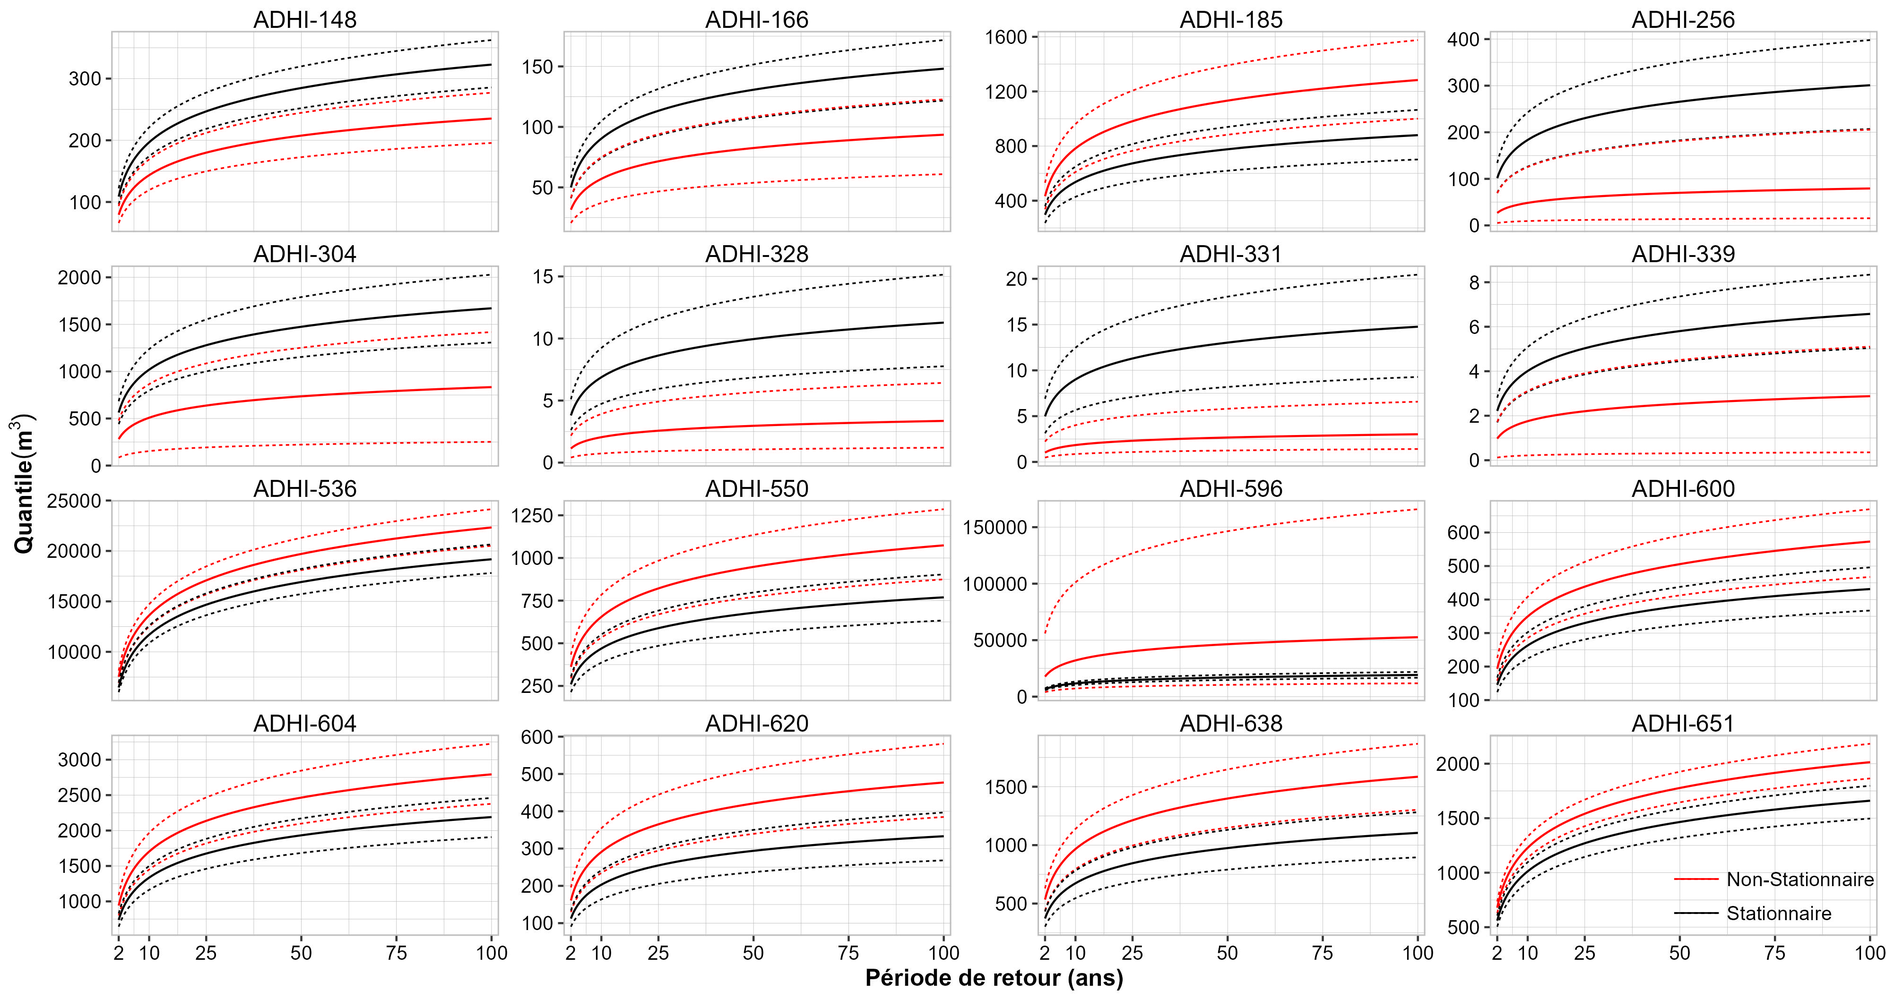
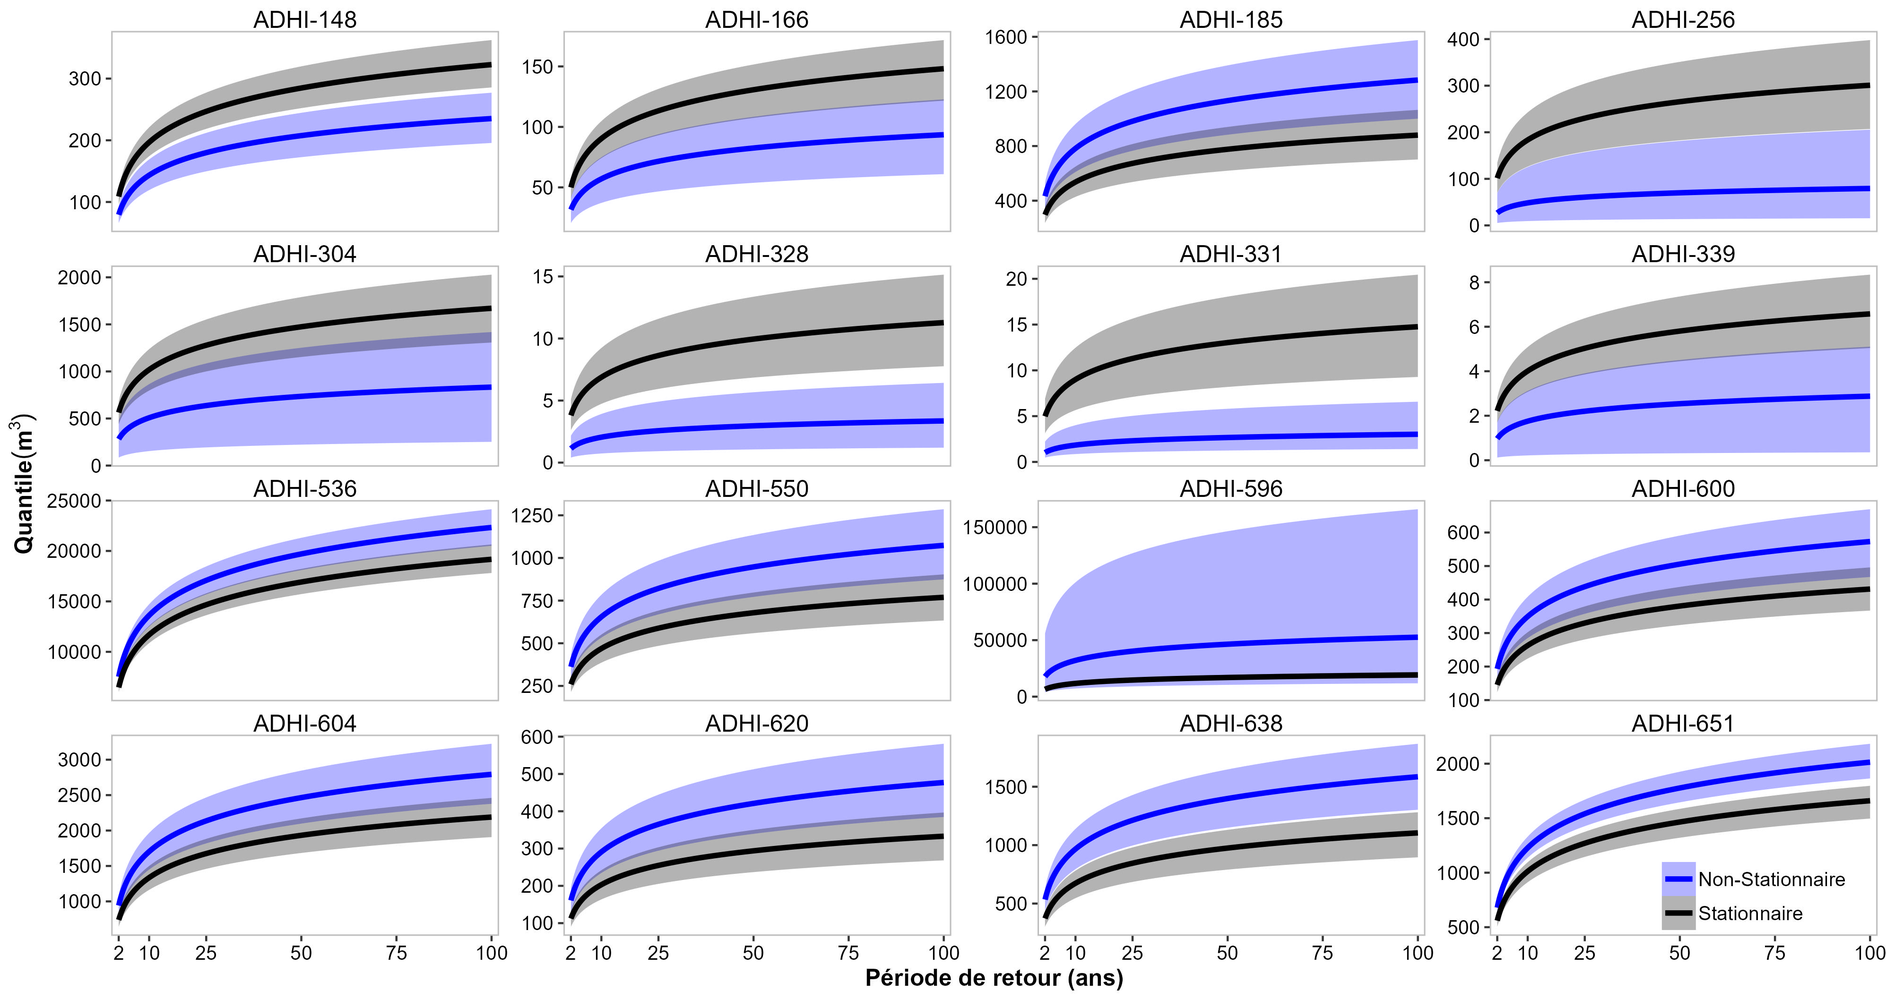
change non-stationary and stationary return level uncertainties plot

diff --git a/docs/index.html b/docs/index.html
@@ -710,13 +710,16 @@
   D --&gt;G
   F --&gt; H(Exploitation du modèle fréquentielle)
   G --&gt; H
+%%{init: {'theme': 'base', "flowchart": {"curve": "stepAfter"}, 'themeVariables': { 'primaryColor': '#fff', 'primaryTextColor': '#000', 'primaryBorderColor': '#626362', 'lineColor': '#626362', 'secondaryColor': '#006100', 'tertiaryColor': '#fff', 'fontSize': '16pt'}}}%%
 </pre>
 </div>
 </div>
 </div>
 </div>
 <div class="justify">
-<p><span class="column-body-text"><strong><i class="fa-solid fa-angle-right" aria-label="angle-right"></i> Le contrôle de la série</strong> de renvoie aux tests d’hypothèses de stationnarité et d’indépendance.<br><strong><i class="fa-solid fa-angle-right" aria-label="angle-right"></i> Le choix du modèle fréquentiel</strong> passe par l’ajustement de plusieurs distributions de probabilité, l’évaluation de la qualité d’ajustement de ces distributions et le choix du modèle qui s’ajuste le mieux aux données observées.<br><strong><i class="fa-solid fa-angle-right" aria-label="angle-right"></i> L’exploitation du modèle fréquentiel</strong> permet d’estimer la probabilité d’occurrence des quantiles de débits.</span></p>
+<div class="body-text">
+<p><strong><i class="fa-solid fa-angle-right" aria-label="angle-right"></i> Le contrôle de la série</strong> de renvoie aux tests d’hypothèses de stationnarité et d’indépendance.<br><strong><i class="fa-solid fa-angle-right" aria-label="angle-right"></i> Le choix du modèle fréquentiel</strong> passe par l’ajustement de plusieurs distributions de probabilité, l’évaluation de la qualité d’ajustement de ces distributions et le choix du modèle qui s’ajuste le mieux aux données observées.<br><strong><i class="fa-solid fa-angle-right" aria-label="angle-right"></i> L’exploitation du modèle fréquentiel</strong> permet d’estimer la probabilité correspondant à un quantile donnée de la variable hydrologique ou, inversement, estimer la valeur correspondant à la probabilité de dépassement de ce quantile.</p>
+</div>
 </div>
 <!-- --------------------------------------------------------------- -->
 </div>
@@ -756,7 +759,7 @@
 <p><strong><span class="tabset-subtitle1">3. Evaluation des modèles fréquentiels</span><br></strong></p>
 </div>
 <div class="callout-content">
-<p><span class="column-body-text"><strong><i class="fa-solid fa-angle-right" aria-label="angle-right"></i></strong> Trois modèles fréquentiels ont été évalués dans cette étude : <strong>GEV</strong>, <strong>Gumbel</strong> et <strong>Exponentiel</strong>. Le modèle <strong>GEV</strong> a trois (3) paramètres tandis que les modèles <strong>Gumbel</strong> et <strong>Exponentiel</strong> ont chacun deux (2) paramètres.<br><strong><i class="fa-solid fa-angle-right" aria-label="angle-right"></i></strong> Trois méthodes d’estimation des paramètres ont été utilisées pour ajuster les modèles fréquentiels aux données empiriques : <strong>L-moments</strong>, <strong>Maximum Likelihood (MLE)</strong> et <strong>Generalized MLE</strong>.<br><strong><i class="fa-solid fa-angle-right" aria-label="angle-right"></i></strong> Les critères <strong>AIC (Akaike Information Criterion)</strong> et <strong>BIC (Bayesian Information Criterion)</strong> ont été utilisés pour pour évaluer et comparer les trois distributions. Le critère <strong>AIC</strong> est dérivé des probabilités fréquentistes tandis que le critère <strong>BIC</strong> est issu des probabilités bayésiennes. <br><strong><i class="fa-solid fa-angle-right" aria-label="angle-right"></i></strong> En plus des critères <strong>AIC</strong> et <strong>BIC</strong>, la comparaison des modèles a également été faite sur la base des <strong>incertitudes associées à l’estimation des quantiles de débit</strong> pour des périodes de retour spécifiques. Les <strong>incertitudes</strong> ont étées calculées en pourcentage avec l’équation <span class="math inline">\(\eqref{eq1}\)</span>. <span class="math display">\[\begin{align}
+<p><span class="column-body-text"><strong><i class="fa-solid fa-angle-right" aria-label="angle-right"></i></strong> Trois modèles fréquentiels ont été évalués dans cette étude : <strong>GEV</strong>, <strong>Gumbel</strong> et <strong>Exponentiel</strong>. Le modèle <strong>GEV</strong> a trois (3) paramètres tandis que les modèles <strong>Gumbel</strong> et <strong>Exponentiel</strong> ont chacun deux (2) paramètres.<br><strong><i class="fa-solid fa-angle-right" aria-label="angle-right"></i></strong> Trois méthodes d’estimation des paramètres ont été utilisées pour ajuster les modèles fréquentiels aux données empiriques : <strong>L-moments</strong>, <strong>Maximum Likelihood (MLE)</strong> et <strong>Generalized MLE</strong>.<br><strong><i class="fa-solid fa-angle-right" aria-label="angle-right"></i></strong> Les critères <strong>AIC (Akaike Information Criterion)</strong> et <strong>BIC (Bayesian Information Criterion)</strong> ont été utilisés pour pour évaluer et comparer les trois distributions. Le critère <strong>AIC</strong> est dérivé des probabilités fréquentistes tandis que le critère <strong>BIC</strong> est issu des probabilités bayésiennes. <br><strong><i class="fa-solid fa-angle-right" aria-label="angle-right"></i></strong> En plus des critères <strong>AIC</strong> et <strong>BIC</strong>, la comparaison des modèles a également été faite sur la base des <strong>incertitudes associées à l’estimation des quantiles de débit</strong> pour des périodes de retour spécifiques.<br><strong><i class="fa-solid fa-angle-right" aria-label="angle-right"></i></strong> Les intervalles de confiance ont été calculés par la méthode bootstrapp. Cette méthode s’appuie strictement sur les informations disponibles (observations), sans hypothèses sous-jacentes et facilement applicable quelle que soit la complexité du modèle <span class="citation" data-cites="SERINALDI201517">(<a href="#/references" role="doc-biblioref" onclick="">Serinaldi and Kilsby 2015</a>)</span>.<br><strong><i class="fa-solid fa-angle-right" aria-label="angle-right"></i></strong>Les <strong>incertitudes</strong> ont étées calculées en pourcentage avec l’équation <span class="math inline">\(\eqref{eq1}\)</span>. <span class="math display">\[\begin{align}
     I_q(\%) = \frac{BS-BI}{Q}\times 100 \label{eq1}\tag{1}
     \end{align}\]</span> <span class="math inline">\(I_q(\%)\)</span> représente les incertitudes, <span class="math inline">\(BS\)</span> et <span class="math inline">\(BI\)</span> représentent respectivement les bornes supérieure et inférieure des intervalles de confiance et <span class="math inline">\(Q\)</span> représente les estimations de quantiles.</span><br></p>
 </div>
@@ -769,7 +772,7 @@
 <p><strong><span class="tabset-subtitle1">4. Modèles non stationnaires</span><br></strong></p>
 </div>
 <div class="callout-content">
-<p><span class="column-body-text"><strong><i class="fa-solid fa-angle-right" aria-label="angle-right"></i></strong> En contexte non-stationnaire, la méthode traditionnelle de l’analyse fréquentielle est inapplicable en raison du rejet des hypothèses de base (stationnarité et homogénéité).<br><br><strong><i class="fa-solid fa-angle-right" aria-label="angle-right"></i></strong> Une façon de prendre en compte cette tendance est d’établir une relation linéaire entre les paramètres du modèle fréquentiel et une ou plusieurs co-variables. Le temps a été prise comme covariable dans ce travail.<br><br><strong><i class="fa-solid fa-angle-right" aria-label="angle-right"></i></strong> Une simple tendance linéaire permet alors d’intégrer cette non-stationnarité dans l’analyse fréquentielle.<br><br><strong><i class="fa-solid fa-angle-right" aria-label="angle-right"></i></strong> Pour la <strong>GEV</strong> par exemple, exprimons le paramètre de position <strong><span class="math inline">\(\mu\)</span></strong> comme une fonction linéaire du temps <strong><span class="math inline">\(\mu_{(t)}\)</span></strong>. Un quantile de débit au temps <strong><span class="math inline">\(t\)</span></strong> peut être obtenu par la fonction quantile <strong><span class="math inline">\(Q_t = GEV_{(μ(t)}, \delta, \xi)\)</span></strong>, avec <strong><span class="math inline">\(Q_t\)</span></strong> représentant le quantile estmé, <strong><span class="math inline">\(\mu_{(t)} = \mu_0 + \mu1_{(t)}\)</span></strong> et <strong><span class="math inline">\(t\)</span></strong> étant un indicateur de temporelle.<br><br><strong><i class="fa-solid fa-angle-right" aria-label="angle-right"></i></strong> Ainsi, on obtient un quantile pour chaque année. Le quantile de la dernière année est choisi et comparé au quantile issu du modèle stationnaire pour voir s’il y a de différences notables entre les modèles stationnaires et ceux non-stationnaires</span></p>
+<p><span class="column-body-text"><strong><i class="fa-solid fa-angle-right" aria-label="angle-right"></i></strong> L’analyse fréquentielle en contexte non stationnaire implique que les observations de la variable étudiée soint des réalisations indépendantes mais pas identiquement distribuées. Elles sont donc issues d’une distribution de probabilité dont les paramètres ne sont pas constants mais changent en fonction d’une ou plusieurs covariables <span class="citation" data-cites="SERINALDI201517">(<a href="#/references" role="doc-biblioref" onclick="">Serinaldi and Kilsby 2015</a>)</span>.<br><br><strong><i class="fa-solid fa-angle-right" aria-label="angle-right"></i></strong> Ce qui fait qu’en contexte non-stationnaire, la méthode traditionnelle de l’analyse fréquentielle est inapplicable en raison du rejet des hypothèses de base (stationnarité et homogénéité).<br><br><strong><i class="fa-solid fa-angle-right" aria-label="angle-right"></i></strong> Une façon de prendre en compte la non stationnarité est d’établir une relation linéaire entre les paramètres du modèle fréquentiel et une ou plusieurs co-variables. Le temps a été prise comme covariable dans ce travail.<br><br><strong><i class="fa-solid fa-angle-right" aria-label="angle-right"></i></strong> Une simple tendance linéaire permet alors d’intégrer cette non-stationnarité dans l’analyse fréquentielle.<br><br><strong><i class="fa-solid fa-angle-right" aria-label="angle-right"></i></strong> Pour la <strong>GEV</strong> par exemple, exprimons le paramètre de position <strong><span class="math inline">\(\mu\)</span></strong> comme une fonction linéaire du temps <strong><span class="math inline">\(\mu_{(t)}\)</span></strong>. Un quantile de débit au temps <strong><span class="math inline">\(t\)</span></strong> peut être obtenu par la fonction quantile <strong><span class="math inline">\(Q_t = GEV_{(μ(t)}, \delta, \xi)\)</span></strong>, avec <strong><span class="math inline">\(Q_t\)</span></strong> représentant le quantile estmé, <strong><span class="math inline">\(\mu_{(t)} = \mu_0 + \mu1_{(t)}\)</span></strong> et <strong><span class="math inline">\(t\)</span></strong> étant un indicateur de temporelle.<br><br><strong><i class="fa-solid fa-angle-right" aria-label="angle-right"></i></strong> Ainsi, on obtient un quantile pour chaque année. Le quantile de la dernière année est choisi et comparé au quantile issu du modèle stationnaire pour voir s’il y a de différences notables entre les modèles stationnaires et ceux non-stationnaires</span></p>
 </div>
 </div>
 </div>
@@ -787,9 +790,9 @@
 </div>
 <div class="callout-content">
 <div class="columns">
-<div class="column" style="width:50%;">
+<div class="column" style="width:60%;">
 <p><span class="column-body-text"><strong><i class="fa-solid fa-angle-right" aria-label="angle-right"></i></strong> Le tableau ci-contre donne le nombre de stations dans lesquelles l’hypothèse nulle <strong><span class="math inline">\(H_0\)</span></strong> des tests utilisés a été rejetée. Les stations avec une tendance significative ou une auocorrélation à un seuil de significativité de 01% ont été exclues dans la suite de l’analyse. Au total, 235 stations ont des séries de maxiams annuels de débits avec indépendance et stationnarité. Les deux figures ci-dessous montrent une spatialisation des résultats des tests de tendance et d’autocorrélation.</span></p>
-</div><div class="column" style="width:50%;">
+</div><div class="column" style="width:40%;">
 <div class="cell">
 <div class="cell-output-display">
 <table class="table table-striped table-hover" data-quarto-postprocess="true" style="margin-left: auto; margin-right: auto;">
@@ -945,7 +948,7 @@
 <p><strong><span class="tabset-subtitle1">1. Quantiles non stationnaires</span><br></strong></p>
 </div>
 <div class="callout-content">
-<p><span class="column-body-text"><strong><i class="fa-solid fa-angle-right" aria-label="angle-right"></i></strong> Le test de tendance de <strong>Mann-Kendall</strong> appliqué au seuil de 01% a permis de détecter 16 stations avec des tendances significatives (dont 07 avec des tendances positives et 09 avec des tendances négatives.)<br><br><strong><i class="fa-solid fa-angle-right" aria-label="angle-right"></i></strong> Le paramètre de position (<span class="math inline">\(\mu\)</span>) de chacun des modèles fréquentiels a été exprimé comme une fonction du temps (utilisé comme covariable). Ainsi, l’estimation des paramètres a été effectuée à chaque pas de temps de la série de maximas annuels de débits.<br><br><strong><i class="fa-solid fa-angle-right" aria-label="angle-right"></i></strong> Cette forme d’estimation des paramètres donne une version non stationnaire de chacun des trois modèles utilisés. Ces modèles ont permis d’intégrer les tendances sour forme linéaire dans l’estimation des quantiles de débits.<br><br><strong><i class="fa-solid fa-angle-right" aria-label="angle-right"></i></strong> Les trois figures suivantes montrent les quantiles non-stationnaires estimés pour les 16 stations à partir des trois modèles. L’estimation des paramètres a été effectué par les méthodes <strong>MLE</strong> et <strong>GMLE</strong>. Par soucis de clareté, seuls les résultats de la méthode <strong>GMLE</strong> sont affichés.</span></p>
+<p><span class="column-body-text"><strong><i class="fa-solid fa-angle-right" aria-label="angle-right"></i></strong> Le test de tendance de <strong>Mann-Kendall</strong> appliqué au seuil de 01% a permis de détecter 16 stations avec des tendances significatives (dont 07 avec des tendances positives et 09 avec des tendances négatives).<br><br><strong><i class="fa-solid fa-angle-right" aria-label="angle-right"></i></strong> Le paramètre de position (<span class="math inline">\(\mu\)</span>) de chacun des modèles fréquentiels a été exprimé comme une fonction du temps (utilisé comme covariable). Ainsi, l’estimation des paramètres a été effectuée à chaque pas de temps de la série de maximas annuels de débits.<br><br><strong><i class="fa-solid fa-angle-right" aria-label="angle-right"></i></strong> Cette forme d’estimation des paramètres donne une version non stationnaire de chacun des trois modèles utilisés. Ces modèles ont permis d’intégrer les tendances sour forme linéaire dans l’estimation des quantiles de débits.<br><br><strong><i class="fa-solid fa-angle-right" aria-label="angle-right"></i></strong> Les trois figures suivantes montrent les quantiles non-stationnaires estimés pour les 16 stations à partir des trois modèles. L’estimation des paramètres a été effectué par les méthodes <strong>MLE</strong> et <strong>GMLE</strong>. Par soucis de clareté, seuls les résultats de la méthode <strong>GMLE</strong> sont affichés.</span></p>
 <div class="quarto-figure quarto-figure-center">
 <figure><p><img data-src="assets/images/Quantiles_effectives/GMLE/GEV_GMLE_Quantiles_effectives.jpeg"></p>
 <figcaption>Quantiles non stationnaires estimés avec le modèle <strong>GEV non-stationnaire</strong> ajusté avec la méthode *<strong>GMLE (Generalized Maximum Likelihood)</strong>.</figcaption></figure>
@@ -974,18 +977,19 @@
 <figcaption>Pourcentages d’incertitudes autour des estimations des quantiles de période de retour 2 ans, 5 ans, 10 ans, 20 ans, 50 ans et 100 ans avec les modèles stationnaires et non-stationnaires ajustés avec la méthode <strong>GMLE</strong>.</figcaption></figure>
 </div>
 <hr class="separator gray">
-<p><span class="column-body-text"><strong><i class="fa-solid fa-angle-right" aria-label="angle-right"></i></strong> L’évaluation graphique est une méthode permettant de comparer les estimation de deux modèles. Le chevauchement de deux intervalles de confiance permet de déduire que la différence entre les estimations des modèles n’est pas statistiquement significative. Comme le montrent les figures ci-dessous, les intervalles de confiance des modèles stationnaires et non stationnaires se chevauchent dans la majorité des stations. <br></span></p>
+<p><span class="column-body-text"><strong><i class="fa-solid fa-angle-right" aria-label="angle-right"></i></strong> L’évaluation graphique est une méthode permettant de comparer les estimation de deux modèles. Le chevauchement de deux intervalles de confiance permet de déduire que la différence entre les estimations des modèles n’est pas statistiquement significative. Comme le montrent les figures ci-dessous, les intervalles de confiance des modèles stationnaires et non stationnaires se chevauchent dans la majorité des stations.<br></span></p>
+<p><span class="column-body-text"><strong><i class="fa-solid fa-angle-right" aria-label="angle-right"></i></strong> Si un modèle stationnaire fournit déjà des intervalles de confiance qui engloblent les estimations produites par les modèles non stationnaires, il n’y a pas un grand intérêt à opter pour les modèles non stationnaires plus complexe et ne garantissant pas vraiment de meilleures prédictions futures <span class="citation" data-cites="SERINALDI201517">(<a href="#/references" role="doc-biblioref" onclick="">Serinaldi and Kilsby 2015</a>)</span>.</span></p>
 <div class="quarto-figure quarto-figure-center">
 <figure><p><img data-src="assets/images/ReturnLevelPlots/incertitudes_plot_NS_vs_S_gumbel_gmle.jpeg"></p>
-<figcaption>Incertitudes autour des estimations des quantiles de période de avec les modèles <strong>Gumbel Stationnaire</strong> et <strong>Gumbel Non-Stationnaire</strong> ajustés à l’aide de la méthode <strong>GMLE</strong>. Les lignes tiretées noires et rouges représentent les bornes inférieure (2,5%) et supérieure (97,5%) des intervalles de confiances des modèles stationnaires et non-stationnaires, respectivement.</figcaption></figure>
+<figcaption>Incertitudes autour des estimations de quantiles avec les modèles <strong>Gumbel Stationnaire</strong> et <strong>Gumbel Non-Stationnaire</strong> ajustés à l’aide de la méthode <strong>GMLE</strong>.</figcaption></figure>
 </div>
 <div class="quarto-figure quarto-figure-center">
 <figure><p><img data-src="assets/images/ReturnLevelPlots/incertitudes_plot_NS_vs_S_gev_gmle.jpeg"></p>
-<figcaption>Incertitudes autour des estimations des quantiles de période de avec les modèles <strong>GEV Stationnaire</strong> et <strong>GEV Non-Stationnaire</strong> ajustés à l’aide de la méthode <strong>GMLE</strong>. Les lignes tiretées noires et rouges représentent les bornes inférieure (2,5%) et supérieure (97,5%) des intervalles de confiances des modèles stationnaires et non-stationnaires, respectivement.</figcaption></figure>
+<figcaption>Incertitudes autour des estimations de quantiles avec les modèles <strong>GEV Stationnaire</strong> et <strong>GEV Non-Stationnaire</strong> ajustés à l’aide de la méthode <strong>GMLE</strong>.</figcaption></figure>
 </div>
 <div class="quarto-figure quarto-figure-center">
 <figure><p><img data-src="assets/images/ReturnLevelPlots/incertitudes_plot_NS_vs_S_exponential_gmle.jpeg"></p>
-<figcaption>Incertitudes autour des estimations des quantiles de période de avec les modèles <strong>Exponentiel Stationnaire</strong> et <strong>Exponentiel Non-Stationnaire</strong> ajustés à l’aide de la méthode <strong>GMLE</strong>. Les lignes tiretées noires et rouges représentent les bornes inférieure (2,5%) et supérieure (97,5%) des intervalles de confiances des modèles stationnaires et non-stationnaires, respectivement.</figcaption></figure>
+<figcaption>Incertitudes autour des estimations de quantiles avec les modèles <strong>Exponentiel Stationnaire</strong> et <strong>Exponentiel Non-Stationnaire</strong> ajustés à l’aide de la méthode <strong>GMLE</strong>.</figcaption></figure>
 </div>
 </div>
 </div>
@@ -1009,6 +1013,9 @@ Kendall, Maurice G. 1975. <em>Rank Correlation Methods</em>. 4th ed., 2d impress
 </div>
 <div id="ref-mann1945nonparametric" class="csl-entry" role="listitem">
 Mann, Henry B. 1945. <span>“Nonparametric Tests Against Trend.”</span> <em>Econometrica: Journal of the Econometric Society</em>, 245–59.
+</div>
+<div id="ref-SERINALDI201517" class="csl-entry" role="listitem">
+Serinaldi, Francesco, and Chris G. Kilsby. 2015. <span>“Stationarity Is Undead: Uncertainty Dominates the Distribution of Extremes.”</span> <em>Advances in Water Resources</em> 77: 17–36. https://doi.org/<a href="https://doi.org/10.1016/j.advwatres.2014.12.013">https://doi.org/10.1016/j.advwatres.2014.12.013</a>.
 </div>
 <div id="ref-trambaly_et_al_2021_adhi" class="csl-entry" role="listitem">
 Tramblay, Y., N. Rouché, J.-E. Paturel, G. Mahé, J.-F. Boyer, E. Amoussou, A. Bodian, et al. 2021. <span>“ADHI: The African Database of Hydrometric Indices (1950–2018).”</span> <em>Earth System Science Data</em> 13 (4): 1547–60. <a href="https://doi.org/10.5194/essd-13-1547-2021">https://doi.org/10.5194/essd-13-1547-2021</a>.
